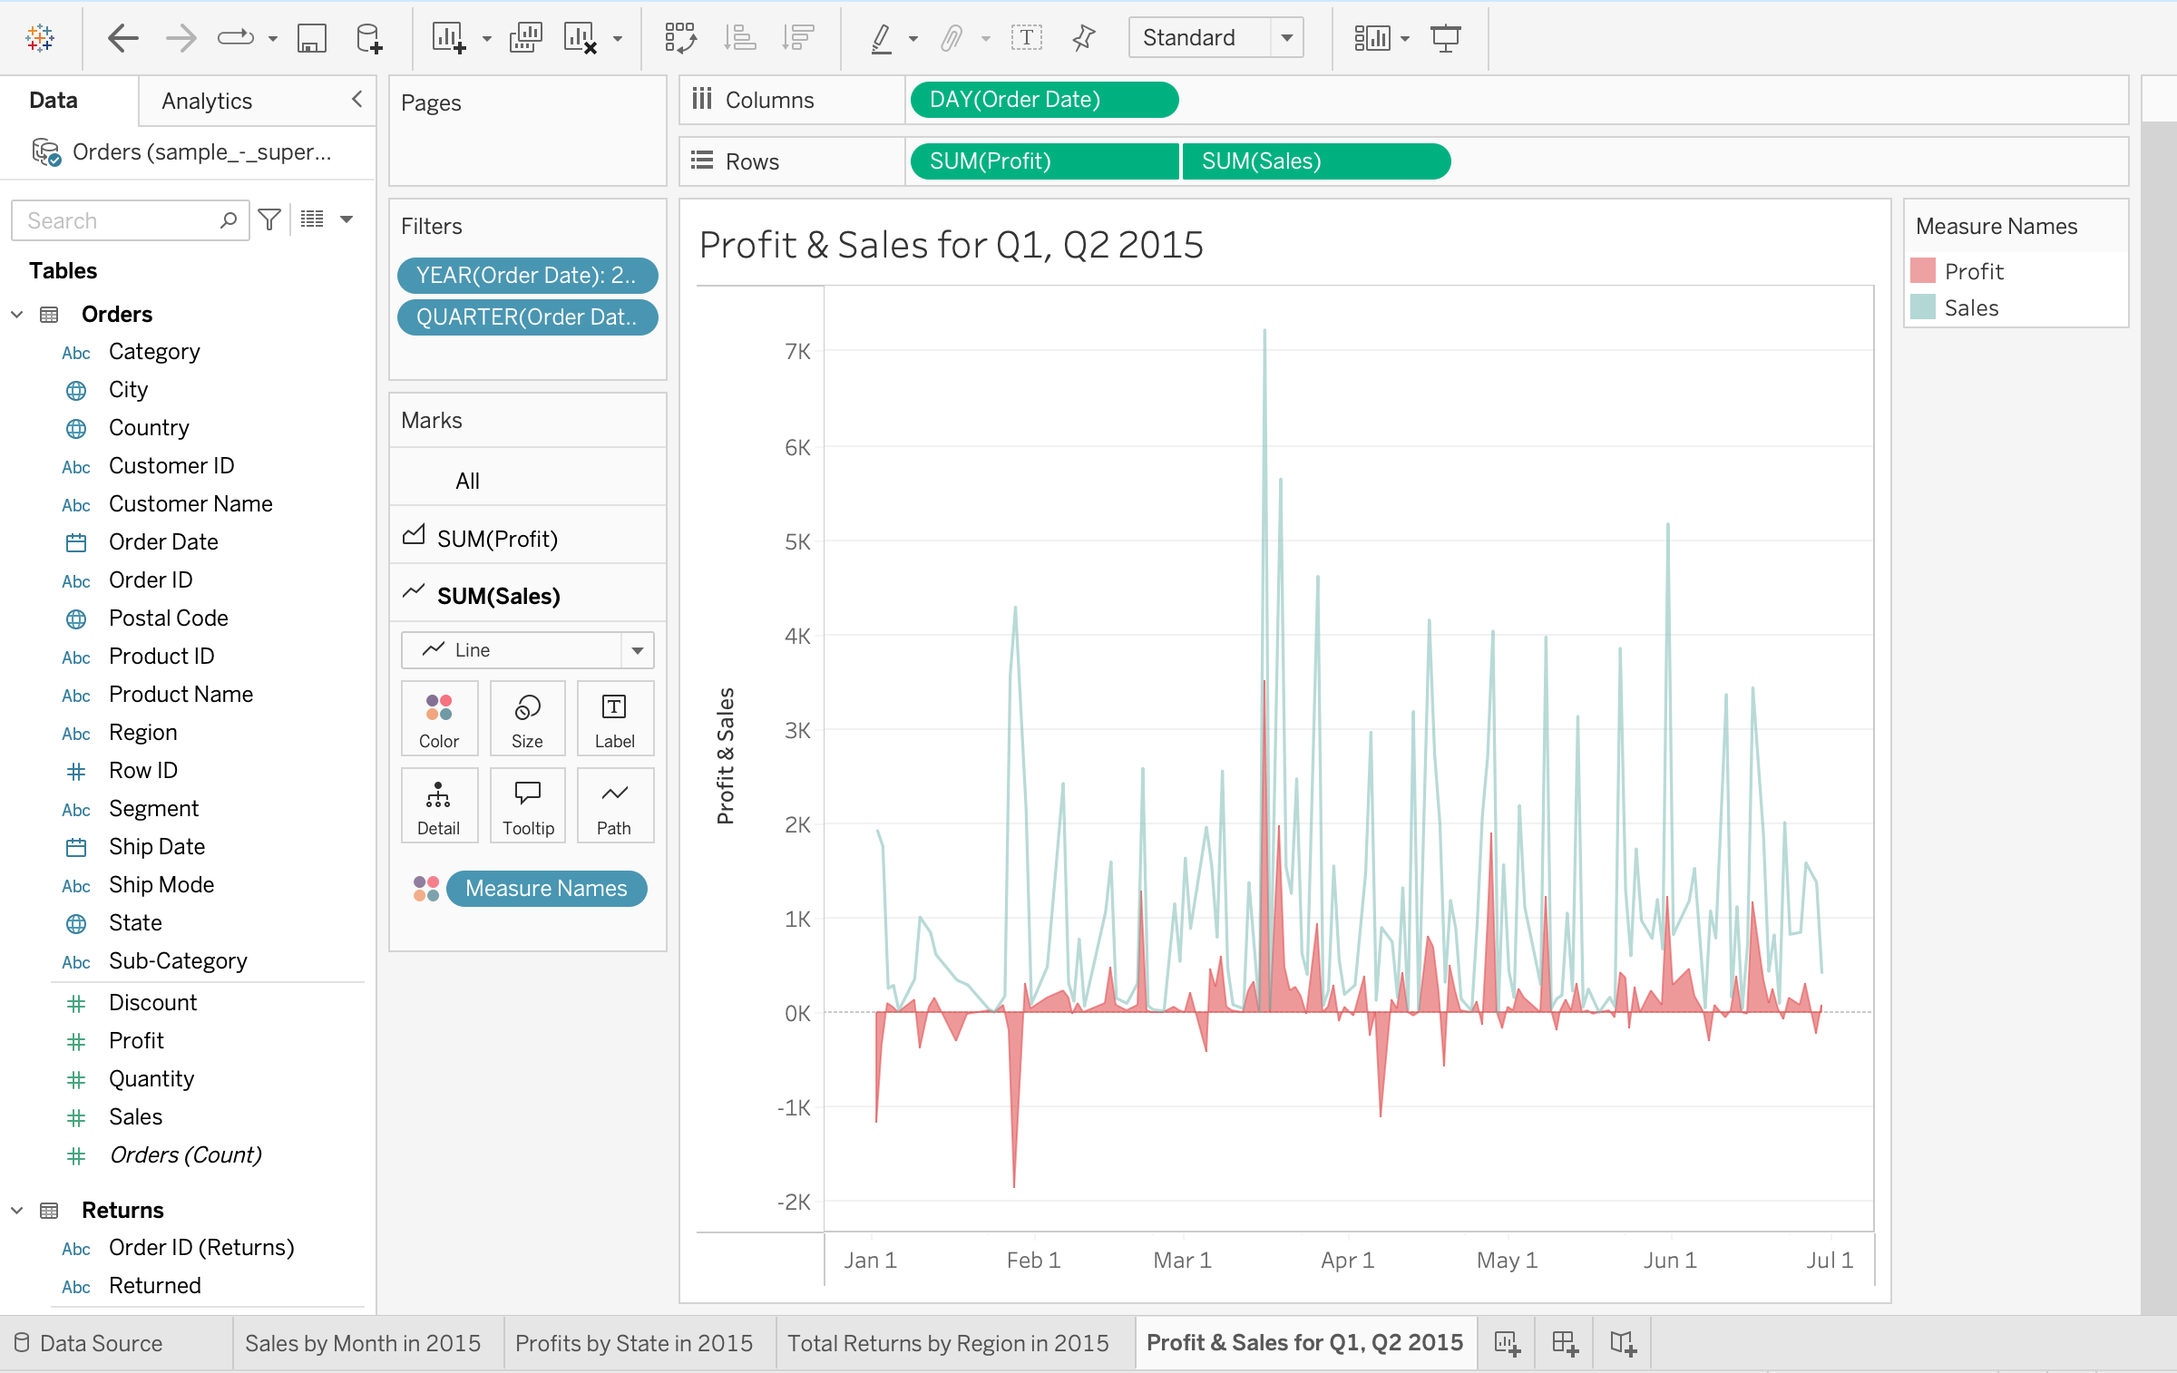
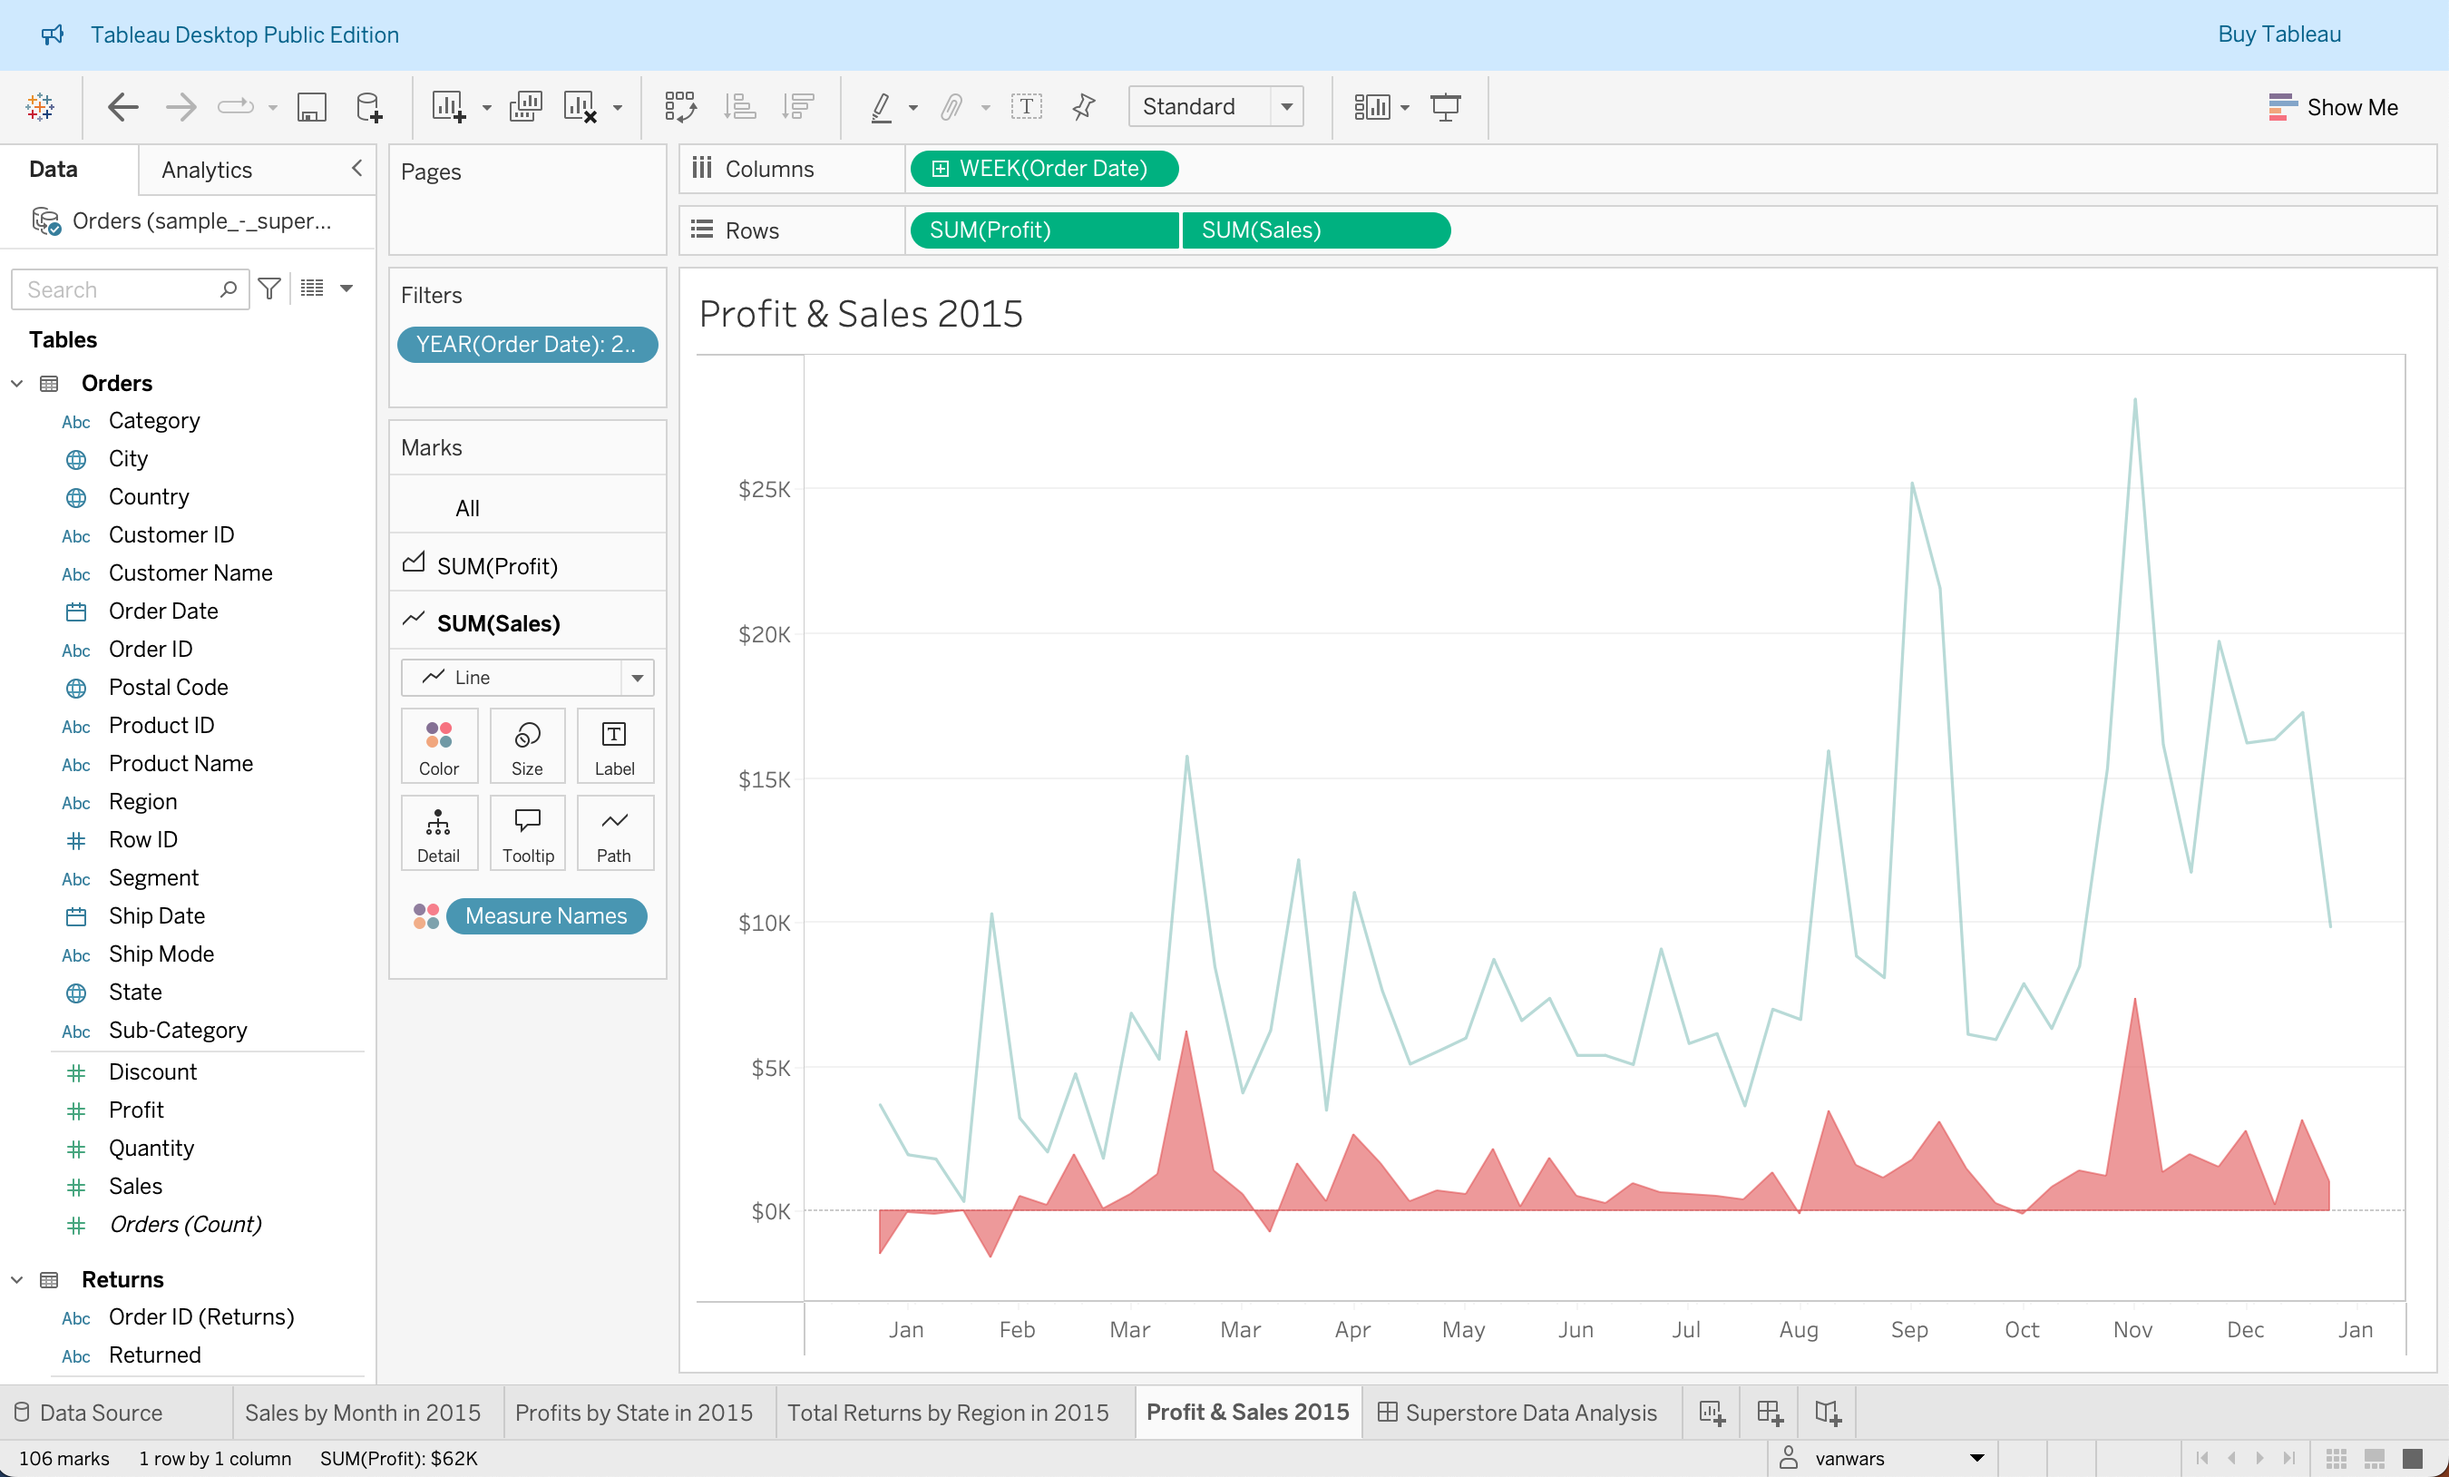
updated instructions

diff --git a/src/app/globals.css b/src/app/globals.css
@@ -141,6 +141,11 @@ html {
   scroll-behavior: smooth;
 }
 
+/* Offset anchor links to account for fixed header */
+html {
+  scroll-padding-top: 80px; /* Adjust this value based on your header height */
+}
+
 /* Custom scrollbar */
 ::-webkit-scrollbar {
   width: 8px;

diff --git a/content/assignments/lab02.md b/content/assignments/lab02.md
@@ -1,5 +1,5 @@
 ---
-title: "Intro to Tableau Public Tutorial"
+title: "Intro to Tableau Public"
 num: "2"
 date: "2025-09-23"
 type: "lab"
@@ -7,71 +7,27 @@ due_date: "2025-09-30"
 draft: 0
 ---
 
-> ## Readings
-> * Today's tutorial is based on this video: <a href="https://www.youtube.com/watch?v=Br7oyg9-jbM" target="_blank">Tutorial: Tableau Public for ULTRA Beginners</a>. If you get stuck on anything, feel free to go back and watch the video.
-> * <a href="https://public.tableau.com/app/learn/sample-data" target="_blank">Sample Datasets</a>
-> ## General Concepts
-> 
-> ### Set-up and Installation 
-> * <a href="https://public.tableau.com/" target="_blank">Register for an account here</a>.
-> * Then, download and install Tableau Public:
->    <img class="screenshot" src="/fall2025/images/assignments/lab02/tableau-download.png" />
-> 
-> ### Loading Data
-> * Open Tableau Public and click File → Open or Connect to Data.
-> * You can browse various sample data sets <a href="https://public.tableau.com/app/learn/sample-data" target="_blank">here</a>
-> 
-> ### What is a Sheet?
-> A Sheet is a single visualization (chart, map, table, etc.). It’s the basic building block in Tableau. You can create multiple sheets, then combine them into a Dashboard later.
-> 
-> ### Measures vs. Dimensions
-> * **Dimensions** = categories, qualitative fields (e.g., Country, Product, Year).
->     * Typically discrete values.
->     * Used to group the data into categories.
-> * **Measures** = numeric fields (e.g., Sales, Profit, Temperature).
->     * Typically continuous values.
->     * Used for calculations, aggregations (SUM, AVG).
-> * Tableau automatically separates them in the sidebar:
->     * Top = Dimensions
->     * Bottom = Measures
-> 
-> ### Show Me: Chart Recommendations
-> The **Show Me** panel (top-right) suggests visualizations. Hover over each chart type to see the minimum number of dimensions/measures required.
-> 
-> Example:
-> 
-> * **Bar charts** need 1 dimension + 1 measure
-> * **Scatter plots** need 2 measures
-> * **Maps** need geographic dimension + measure (optional)
-> 
-> Drag fields onto rows/columns, then click a chart type in Show Me.
->
-> ### Creating a Dashboard
-> A Dashboard combines multiple sheets into one interactive view.
-> Steps:
-> 
-> 1. Click New Dashboard (bottom tab).
-> 1. Drag your sheets from the left sidebar into the workspace.
-> 1. Adjust layout (floating vs. tiled).
-> 1. Add filters so clicking in one chart updates others.
-> 
-> ### Publishing to Tableau Public
-> When ready, click File → Save to Tableau Public. You’ll need a free Tableau Public account.
-> 
-> Once published:
-> 
-> * The visualization is accessible via a public link.
-> * You can embed it in a website, share on social media, or download later.
+## Reference Materials for Today's Lab
+* Today's tutorial is based on this video: <a href="https://www.youtube.com/watch?v=Br7oyg9-jbM" target="_blank">Tutorial: Tableau Public for ULTRA Beginners</a>. If you get stuck on anything, feel free to go back and watch the video.
+* <a href="https://public.tableau.com/app/learn/sample-data" target="_blank">Sample Datasets</a> (we will be working with the "Superstore" dataset)
+* [Tableau Public Cheat Sheet](/fall2025/resources/data-tableau) (Course Website)
+
 
 ## Your Tasks for Lab 2
-For Lab 2, you are going to make a "Superstore Sales" dashboard as a means to explore the various features of Tableau Public. Specifically, you will learn how to:
-1. Import data
-2. Make a bunch of different charts
-3. Incorporate those charts into a dashboard
-4. Publish your dashboard so it's available on the Internet
+For Lab 2, you are going to make a "Superstore Sales" dashboard as a means to explore the various features of Tableau Public. 
+
+Before you begin, register for a Tableau Public account and download and install the Desktop software (see the [Tableau Public Cheat Sheet](/fall2025/resources/data-tableau)). Then, complete the following 7 tasks:
+
+1. [Load your data](#1-load-your-data)
+2. [Make a bar chart](#2-make-a-bar-chart-sales-by-region) (for practice)
+3. [Make a line chart grouped by region](#3-make-a-line-chart-of-total-monthly-sales-by-region-in-2015)
+4. [Make a map of total profits](#4-make-a-map-of-total-profits-by-state-in-2015)
+5. [Make a tree map](#5-make-a-tree-map-of-total-returns-by-region-by-state-in-2015)
+6. [Make a *dual axis* chart](#6-make-a-dual-axis-chart-showing-profit-and-sales-in-2015-for-q1-and-q2)
+7. [Make & publish a dashboard](#7-make-a-dashboard)
 
 
-### 1. Load Your Data
+### 1. Load Your Data <a id="1-load-your-data"></a>
 Let's download the **"Superstore Sales"** dataset <a href="https://public.tableau.com/app/learn/sample-data" target="_blank">here</a>. Once downloaded, save the **`sample_-_superstore.xls`** file within your `mser521` folder in a folder called `lab02`. Your directory structure should look something like this:
 
 ```sh
@@ -90,8 +46,18 @@ Once loaded, drag the "orders" sheet into the main panel to display the data:
 
 Once the data has been loaded, click on the "Sheet 1" tab at the bottom (highlighted in orange in the screenshot above).
 
-### 2. Make a Bar Chart: Sales by Region
-In sheet one, there should be a list of variables that you can use to create your charts. These variables are divided into "Dimensions" (top, green) -- qualitative and text indicators -- and "Measures" -- quantitative indicators (numeric measurements):
+### 2. Make a Bar Chart: Sales by Region <a id="2-make-a-bar-chart-sales-by-region"></a>
+In sheet one, there should be a list of variables that you can use to create your charts. These variables are divided into *dimensions* and *measures*. Tableau automatically positions *dimensions* on the top and *measures* on the bottom.
+
+**Dimensions** = categories, qualitative fields (e.g., Country, Product, Year).
+* Typically discrete values.
+* Used to group the data into categories.
+
+**Measures** = numeric fields (e.g., Sales, Profit, Temperature).
+* Typically continuous values.
+* Used for calculations, aggregations (SUM, AVG).
+
+
 
 <img class="screenshot" src="/fall2025/images/assignments/lab02/variables.png" />
 
@@ -101,35 +67,36 @@ Double-click on the **Sales** measure and **Region** dimension. It should automa
 
 Tableau has a set of "smart defaults" for displaying various measure / dimension combinations. That said, you can click on the "Show Me" button on the upper right-hand corner of your screen and try out some of the other charts (pie chart, stacked bar chart, treemap, etc.)
 
-### 3. Make a Line Chart of Total Monthly Sales by Region in 2015
+### 3. Make a Line Chart of Total Monthly Sales by Region in 2015 <a id="3-make-a-line-chart-of-total-monthly-sales-by-region-in-2015"></a>
 In a new sheet, see if you can make the following line chart, showing monthly sales grouped by region (small multiples). Filter the data so that it is only showing sales data for 2015.
 
 <img class="screenshot !max-w-4xl" src="/fall2025/images/assignments/lab02/challenge1.png" />
 
-### 4. Make a Map of Total Profits by State in 2015
+### 4. Make a Map of Total Profits by State in 2015 <a id="4-make-a-map-of-total-profits-by-state-in-2015"></a>
 In a new sheet, see if you can make the following map, showing profit by state for the year 2015:
 
 <img class="screenshot !max-w-4xl" src="/fall2025/images/assignments/lab02/challenge2.png" />
 
-### 5. Make a Tree Map of Total Returns by Region by State in 2015
+### 5. Make a Tree Map of Total Returns by Region by State in 2015 <a id="5-make-a-tree-map-of-total-returns-by-region-by-state-in-2015"></a>
 In a new sheet, see if you can make the following visualization, showing returns by region and by state for the year 2015:
 
 <img class="screenshot !max-w-4xl" src="/fall2025/images/assignments/lab02/challenge3.png" />
 
-### 6. Make a "Dual Axis" Chart Showing Profit and Sales in 2015 for Q1 and Q2
+### 6. Make a "Dual Axis" Chart Showing Profit and Sales in 2015<a id="6-make-a-dual-axis-chart-showing-profit-and-sales-in-2015-for-q1-and-q2"></a>
 You may want to watch the tutorial video for this one. It's from timestamp **10:40-12:33**:
 
 <img class="screenshot !max-w-4xl" src="/fall2025/images/assignments/lab02/challenge4.png" />
 
+**Hint**: Visualize the timeseries data by week (continuous) rather than by day.
 
-### 7. Make a Dashboard
+### 7. Make a Dashboard <a id="7-make-a-dashboard"></a>
 Try making a dashboard that looks something like this (and see if you can get the filter to work):
 
 <img class="screenshot !max-w-4xl" src="/fall2025/images/assignments/lab02/dashboard.png" />
 
-Here's a link to the Dashboard that I made: <a href="https://public.tableau.com/app/profile/vanwars/viz/Lab02Dashboard/SuperstoreDataAnalysis" target="_blank">https://public.tableau.com/app/profile/vanwars/viz/Lab02Dashboard/SuperstoreDataAnalysis</a>.
+Here's a link to the <a href="https://public.tableau.com/shared/QZYS6PTHR?:display_count=n&:origin=viz_share_link" target="_blank">Dashboard</a> that I made.
 
-When you're done, make sure you publish it to Tableau Public. The video tutorial goes over how to do this.
+It doesn't have to look exactly like the one pictured in the screenshot. Just do your best! When you're done, make sure you publish it to Tableau Public. The video tutorial goes over how to do this.
 
 
 ## What to Turn In

diff --git a/content/resources/data-tableau.md b/content/resources/data-tableau.md
@@ -1,0 +1,63 @@
+---
+title: "Tableau Public Cheat Sheet"
+group_order: 4
+group: "Data"
+order: 2
+---
+
+## Tableau Public Cheat Sheet
+
+### Set-up and Installation 
+* <a href="https://public.tableau.com/" target="_blank">Register for an account here</a>.
+* Then, download and install Tableau Public:
+   <img class="screenshot" src="/fall2025/images/assignments/lab02/tableau-download.png" />
+
+### How to Load Data
+* Open Tableau Public and click File → Open or Connect to Data.
+* Tableau offers numerous sample data sets for you to experiment with. 
+* You can upload data in a variety of formats. Additionally, if you get the paid version, you hook Tableau up to your own databases and create "real time" dashboards (common in industry).
+
+### What is a Sheet?
+A Sheet is a single visualization (chart, map, table, etc.). It’s the basic building block in Tableau. You can create multiple sheets, then combine them into a Dashboard later.
+
+### Measures vs. Dimensions
+* **Dimensions** = categories, qualitative fields (e.g., Country, Product, Year).
+    * Typically discrete values.
+    * Used to group the data into categories.
+* **Measures** = numeric fields (e.g., Sales, Profit, Temperature).
+    * Typically continuous values.
+    * Used for calculations, aggregations (SUM, AVG).
+* Tableau automatically separates them in the sidebar:
+    * Top = Dimensions
+    * Bottom = Measures
+
+### "Show Me" Chart Recommendations
+The **Show Me** panel (top-right) suggests visualizations. Hover over each chart type to see the minimum number of dimensions/measures required.
+
+Example:
+
+* **Bar charts** need 1 dimension + 1 measure
+* **Scatter plots** need 2 measures
+* **Maps** need geographic dimension + measure (optional)
+
+Drag fields onto rows/columns, then click a chart type in Show Me.
+>
+### How to Create a Dashboard
+A Dashboard combines multiple sheets into one interactive view.
+Steps:
+
+1. Click New Dashboard (bottom tab).
+1. Drag your sheets from the left sidebar into the workspace.
+1. Adjust layout (floating vs. tiled).
+1. Add filters so clicking in one chart updates others.
+
+### How to Publish to Tableau Public
+When ready, click File → Save to Tableau Public. You’ll need a free Tableau Public account.
+
+Once published:
+
+* The visualization is accessible via a public link.
+* You can embed it in a website, share on social media, or download later.
+
+
+

diff --git a/content/resources/data.md b/content/resources/data.md
@@ -2,9 +2,10 @@
 title: "Overview"
 group_order: 4
 group: "Data"
-order: 4
+order: 1
 draft: 0
 ---
 
-## Data
-Coming Soon!
+## Useful Links
+* [Tableau Public Cheat Sheet](./data-tableau)
+* <a href="https://public.tableau.com/app/learn/sample-data" target="_blank">Tableau Sample Datasets</a>
